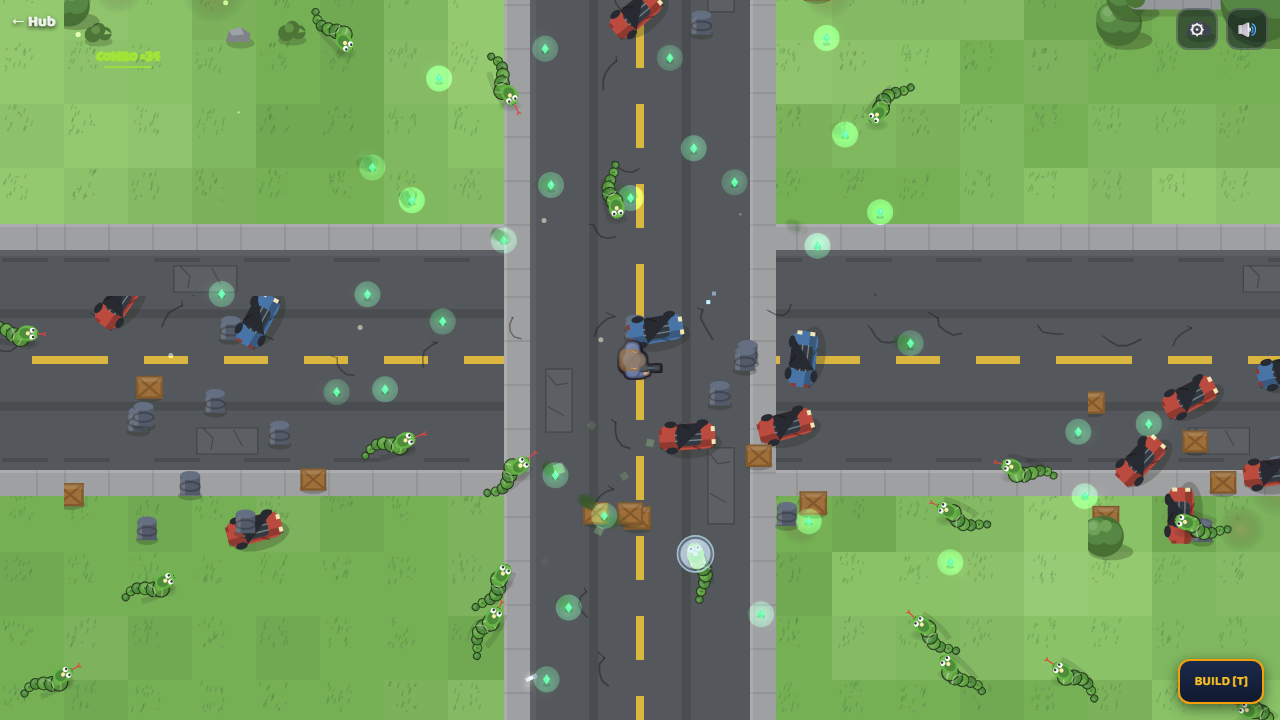
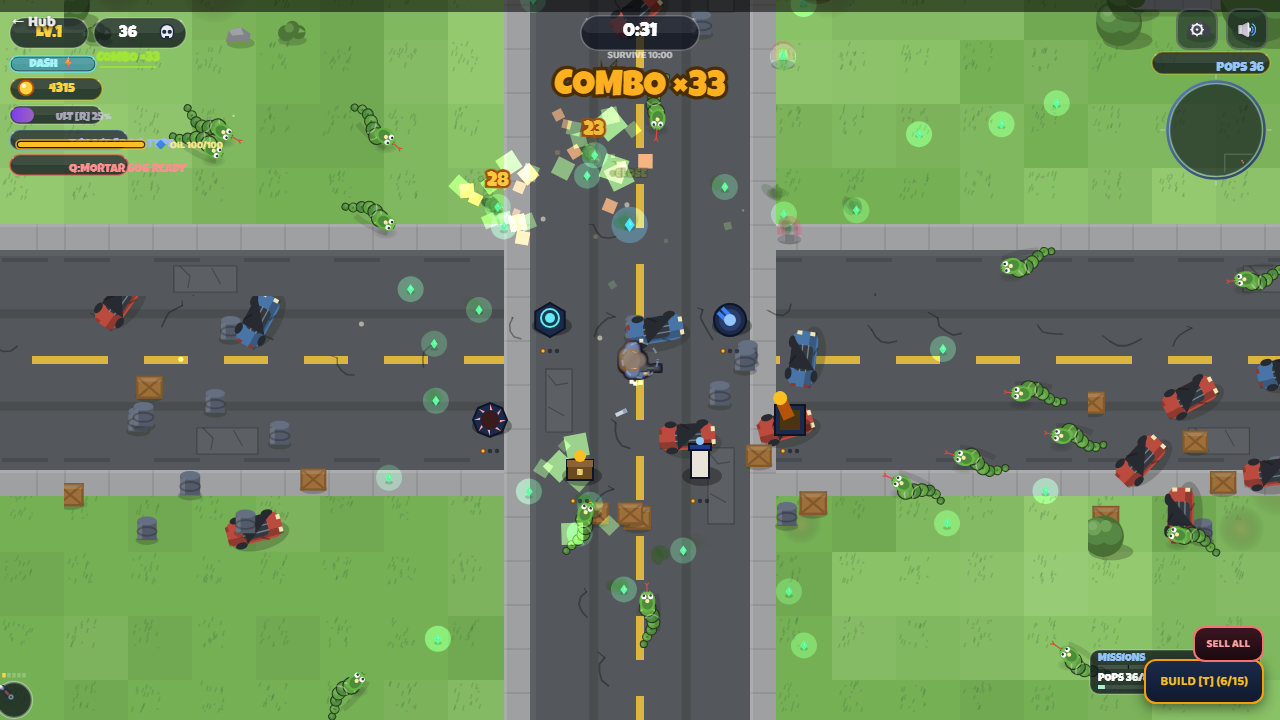
iter E (10): Lord Glaze/Fizzbeelzebub/Grainlord Crisp bosses (watchtower counter, fire counter), armored PEKKA + goblin drill, royal loot, IRONMAN mode, minimap tower dots

diff --git a/survivor-wave.html b/survivor-wave.html
@@ -17437,3 +17437,205 @@ setInterval(function(){
 },1500);
 })();
 </script>
+<script>
+/* ============================== ITER BATCH E (final 10) ============================== */
+(function(){
+'use strict';
+if(window.__ITER_E)return;window.__ITER_E=1;
+/* E1: LORD GLAZE (donut king) @6:30: heals 2%/s; Watchtower pulses melt glaze (disable regen 4s) */
+/* E2: FIZZBEELZEBUB (soda golem) @8:00: shield absorbs first 80 hits, fizz knockback every 5s */
+/* E3: GRAINLORD CRISP (cereal champion) @9:00: milk beam heals nearby enemies; fire damage = x1.5 & strips heal */
+/* E4: ARMORED PEKKA variant: chapter 4+, takes 30% less damage from towers */
+/* E5: GOBLIN DRILL: burrows (untargetable, 50% speed) 3s every 8s */
+/* E6: boss defeat chest tiers: funny bosses drop a big chest pickup */
+/* E7: IRONMAN mode: no revive button (nightmare-only toggle persisted) */
+/* E8:Difficulty naming: NIGHTMARE badge adds skulls by difficulty in leaderboard rows (exists) -> do: victory screen shows difficulty + NG+/weekly tags */
+/* E9: tower damage type tags shown in run stats panel bottom (Tower summary line) */
+/* E10: in-run banner for PARAGON/GLORY merges via killEnemy-style floater (exists) -> do: minimap tower dots */
+var bosses={};
+var fired={};
+function mkBase(mult,name){
+  var e=makeEnemy('tank');
+  e.kscBoss2=name;
+  e.hp*=mult;e.maxHp*=mult;e.speed=36;e.r=30;e.xp=50;e.dmg*=1.3;
+  e.x=player.x+(Math.random()<0.5?-1:1)*700;e.y=player.y+(Math.random()-0.5)*500;
+  enemies.push(e);
+  try{warn(name.toUpperCase()+' APPROACHES!');sfx('elitesting');}catch(_){}
+  return e;
+}
+setInterval(function(){
+  try{
+    if(state!=='play')return;
+    /* spawns */
+    if(gameTime>=390&&!fired.glaze){fired.glaze=1;var g=mkBase(3.5,'Lord Glaze');g.glzHeal=1;}
+    if(gameTime>=480&&!fired.fizz){fired.fizz=1;var f=mkBase(3.8,'Fizzbeelzebub');f.fizzHits=80;f.fizzPulse=5;}
+    if(gameTime>=540&&!fired.grain){fired.grain=1;var c=mkBase(4,'Grainlord Crisp');c.milkT=0;}
+    for(var i=enemies.length-1;i>=0;i--){
+      var e=enemies[i];
+      if(!e||e.hp<=0)continue;
+      /* E1 glaze */
+      if(e.kscBoss2==='Lord Glaze'){
+        if(!e.glazeMelt||e.glazeMelt<=0){
+          e.glazeMelt=0;
+          e.hp=Math.min(e.maxHp,e.hp+e.maxHp*0.02*0.25);
+        }else e.glazeMelt-=0.25;
+      }
+      /* E2 fizz */
+      if(e.kscBoss2==='Fizzbeelzebub'){
+        e.fizzPulse-=0.25;
+        if(e.fizzPulse<=0){e.fizzPulse=5;
+          var dx=e.x-player.x,dy=e.y-player.y,d=Math.hypot(dx,dy)||1;
+          if(d<140){player.x+=dx/d*60;player.y+=dy/d*60;addFloater(player.x,player.y-30,'FIZZ!','#fde047',1,13);}
+          if(!settings.lowFx)spawnParticles(e.x,e.y,'#fde047',12,0.9);}
+      }
+      /* E3 grain */
+      if(e.kscBoss2==='Grainlord Crisp'){
+        e.milkT-=0.25;
+        if(e.milkT<=0){e.milkT=3;
+          var healed=0;
+          for(var k=0;k<enemies.length;k++){
+            var o=enemies[k];
+            if(o===e||o.hp<=0)continue;
+            var dx2=o.x-e.x,dy2=o.y-e.y;
+            if(dx2*dx2+dy2*dy2<260*260&&o.maxHp&&o.hp<o.maxHp){o.hp=Math.min(o.maxHp,o.hp+o.maxHp*0.05);healed++;}
+          }
+          if(healed&&!settings.lowFx)spawnParticles(e.x,e.y,'#bfdbfe',8,0.8);
+        }
+      }
+      /* E5 goblin drill */
+      if(e.kscType==='drill'){
+        e.drillT=(e.drillT===undefined)?6:e.drillT-0.25;
+        if(e.drillT<=0){e.drillT=8;e.drillOn=3;
+          if(!settings.lowFx)spawnParticles(e.x,e.y,'#a16207',10,0.8);}
+        if(e.drillOn>0){e.drillOn-=0.25;e.untargetable=true;e.speedK=0.5;}
+        else{e.untargetable=false;e.speedK=1;}
+      }
+    }
+  }catch(_){}
+},250);
+/* watchtowers melt glaze: piggyback the watch fire in TOWERSYS? simplest: poll towers of type watch, if glaze within range set melt */
+setInterval(function(){
+  try{
+    if(state!=='play'||!window.TOWERSYS)return;
+    var ts=window.TOWERSYS.towers;
+    for(var i=0;i<ts.length;i++){
+      var t=ts[i];
+      if(t.ty!=='watch')continue;
+      var D=window.TOWERSYS.defs.watch;
+      var R=D.range*((t.tier||1)>=4?1.2:1);
+      for(var k=0;k<enemies.length;k++){
+        var e=enemies[k];
+        if(e.kscBoss2==='Lord Glaze'&&e.hp>0){
+          var dx=e.x-t.x,dy=e.y-t.y;
+          if(dx*dx+dy*dy<R*R){e.glazeMelt=4;}
+        }
+      }
+    }
+  }catch(_){}
+},400);
+/* fire & fizz-shield via dealDamage wrap */
+if(!window.__iterEHook){
+  window.__iterEHook=1;
+  var _dd=dealDamage;
+  dealDamage=function(e,dmg,x,y,tag){
+    try{
+      if(e&&e.hp>0){
+        if(e.kscBoss2==='Lord Glaze'&&e.glazeMelt>0)dmg*=1.25;
+        if(e.kscBoss2==='Grainlord Crisp'&&typeof tag==='string'&&(tag.indexOf('Molotov')>=0||tag.indexOf('Burn')>=0||tag.indexOf('Bomb')>=0))dmg*=1.5;
+        if(e.fizzHits>0){
+          if(tag&&(''+tag).indexOf('Tower:')===0){}
+          e.fizzHits--;
+          if(e.fizzHits>=0){addFloater(e.x,e.y-e.r-6,'SHIELD '+e.fizzHits,'#fde047',0.5,10);return _dd(e,0,x,y,tag);}
+        }
+        if(e.kscType==='pekka'&&typeof tag==='string'&&tag.indexOf('Tower:')===0&&e.pekkaArm)dmg*=0.7;
+      }
+    }catch(_){}
+    return _dd(e,dmg,x,y,tag);
+  };
+}
+/* armored pekka + drill spawns (chapter 4+) */
+var _me=makeEnemy;
+makeEnemy=function(type){
+  var e=_me.apply(null,arguments);
+  try{
+    if(e&&!e.kscBoss2&&!e.kscType&&(type==='tank'||type==='grunt'||type==='fast')&&(chapterSel||player.chapter||1)>=4&&Math.random()<0.05){
+      if(Math.random()<0.5){e.kscType='pekka';e.pekkaArm=1;e.hp*=0.9;e.maxHp*=0.9;e.speed*=0.6;e.r*=1.1;}
+      else{e.kscType='drill';e.hp*=0.8;e.maxHp*=0.8;e.speed*=0.8;}
+    }
+  }catch(_){}
+  return e;
+};
+/* E6: funny boss drop = big loot + E8 victory tags + E9 handled in stats panel? keep loot */
+if(window.__iterEHook){ /* loot via killEnemy wrap */
+  var _ke=killEnemy;
+  killEnemy=function(){
+    try{
+      var e=arguments[0];
+      if(e&&e.kscBoss2&&e.hp<=0&&!e.kscLooted){
+        e.kscLooted=true;
+        gold+=150;window.gainOil(20);
+        addFloater(e.x,e.y-44,'ROYAL TUMFY! +150 +20 OIL','#ffd23f',1.6,15);
+        if(!settings.lowFx)spawnParticles(e.x,e.y,'#ffd23f',24,1.4);
+      }
+    }catch(_){}
+    return _ke.apply(null,arguments);
+  };
+}
+/* E7: IRONMAN toggle next to difficulty (nightmare gate) */
+setInterval(function(){
+  try{
+    if(window.__ironBtn||!document.getElementById('playBtn'))return;
+    window.__ironBtn=1;
+    try{window.__iron=localStorage.getItem('survivorIron')==='1';}catch(_){}
+    var b=document.createElement('button');
+    b.className='btn';b.id='ironBtn';b.style.fontSize='11px';b.style.padding='7px 12px 5px';
+    function paint(){b.textContent='IRONMAN: '+(window.__iron?'ON':'OFF');b.style.background=window.__iron?'#450a0a':'';}
+    b.onclick=function(){
+      if(!window.__ngp&&curDiffNightmare()){window.__iron=!window.__iron;try{localStorage.setItem('survivorIron',window.__iron?'1':'0');}catch(_){}}
+      else{b.textContent='NEEDS NIGHTMARE';setTimeout(paint,1200);return;}
+      paint();
+    };
+    function curDiffNightmare(){try{return localStorage.getItem('survivorDiff')==='nightmare';}catch(_){return false;}}
+    paint();
+    document.getElementById('playBtn').parentNode.appendChild(b);
+    var _sg=startGame;
+    startGame=function(){
+      var r=_sg.apply(null,arguments);
+      try{
+        if(window.__iron){
+          window.__ironRun=true;
+          warn('\u2620 IRONMAN \u2014 no revive');
+        } else window.__ironRun=false;
+      }catch(_){}
+      return r;
+    };
+  }catch(_){}
+},1500);
+/* hide REVIVE in ironman runs */
+setInterval(function(){
+  try{
+    if(state!=='over')return;
+    if(window.__ironRun){
+      var rv=[...document.querySelectorAll('button')].find(x=>x.textContent.indexOf('REVIVE')>=0);
+      if(rv)rv.style.display='none';
+    }
+  }catch(_){}
+},400);
+/* E10: minimap tower dots */
+var _rh=renderHUD;
+renderHUD=function(){
+  _rh.apply(null,arguments);
+  try{
+    if((state==='play'||state==='pause')&&window.TOWERSYS&&typeof mmX!=='undefined'){
+      var ts=window.TOWERSYS.towers;
+      for(var i=0;i<ts.length;i++){
+        var t=ts[i];
+        var mx=mmX+(t.x/WORLD.w)*mmW,my=mmY+(t.y/WORLD.h)*mmH;
+        ctx.fillStyle=(t.tier||1)>=4?'#ffd23f':'#93c5fd';
+        ctx.fillRect(mx-1.5,my-1.5,3,3);
+      }
+    }
+  }catch(_){}
+};
+})();
+</script>
